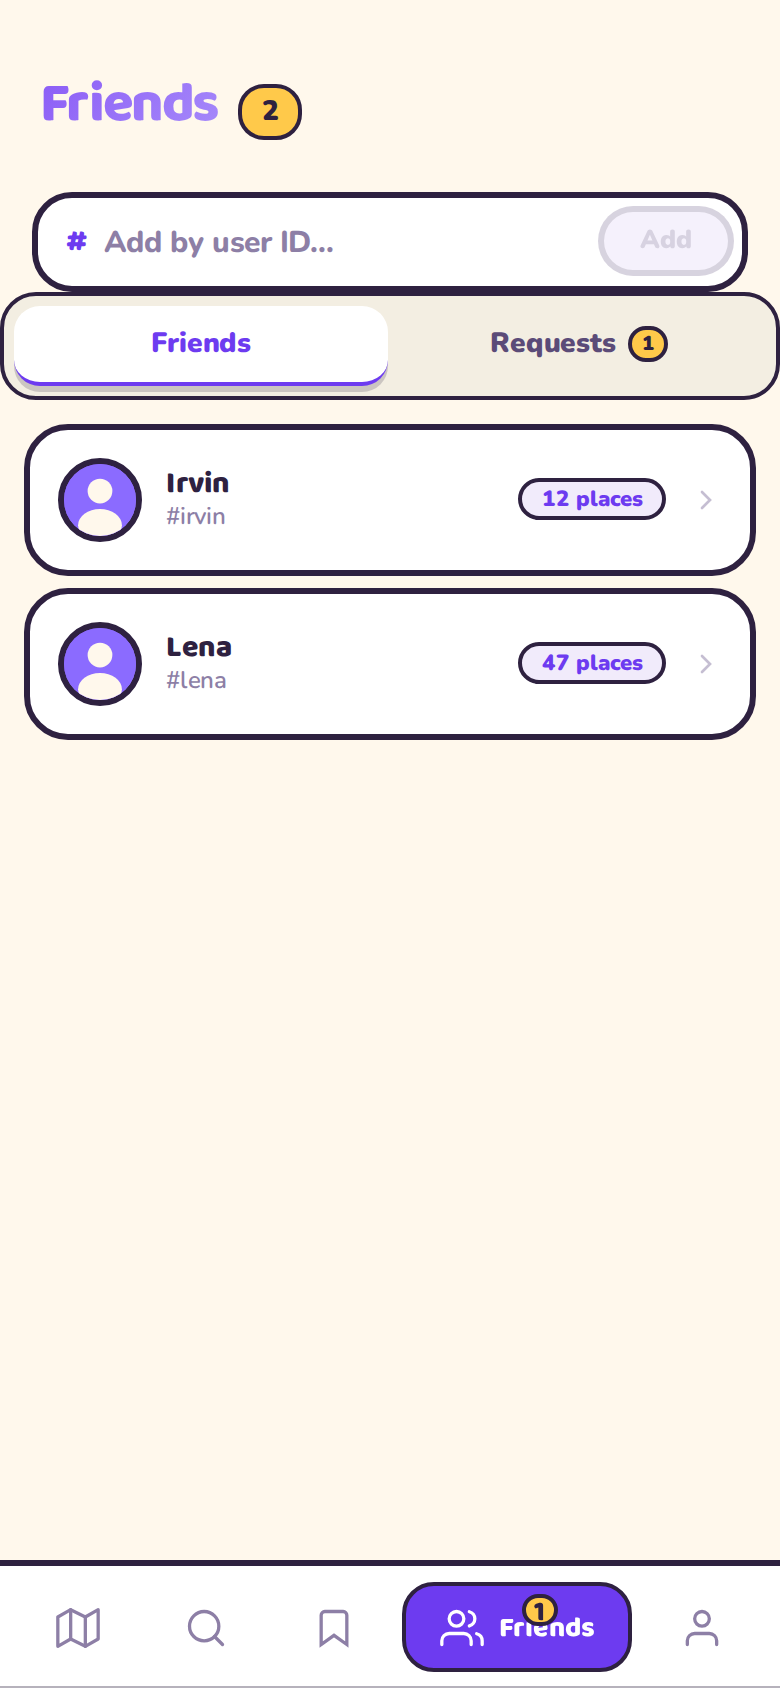
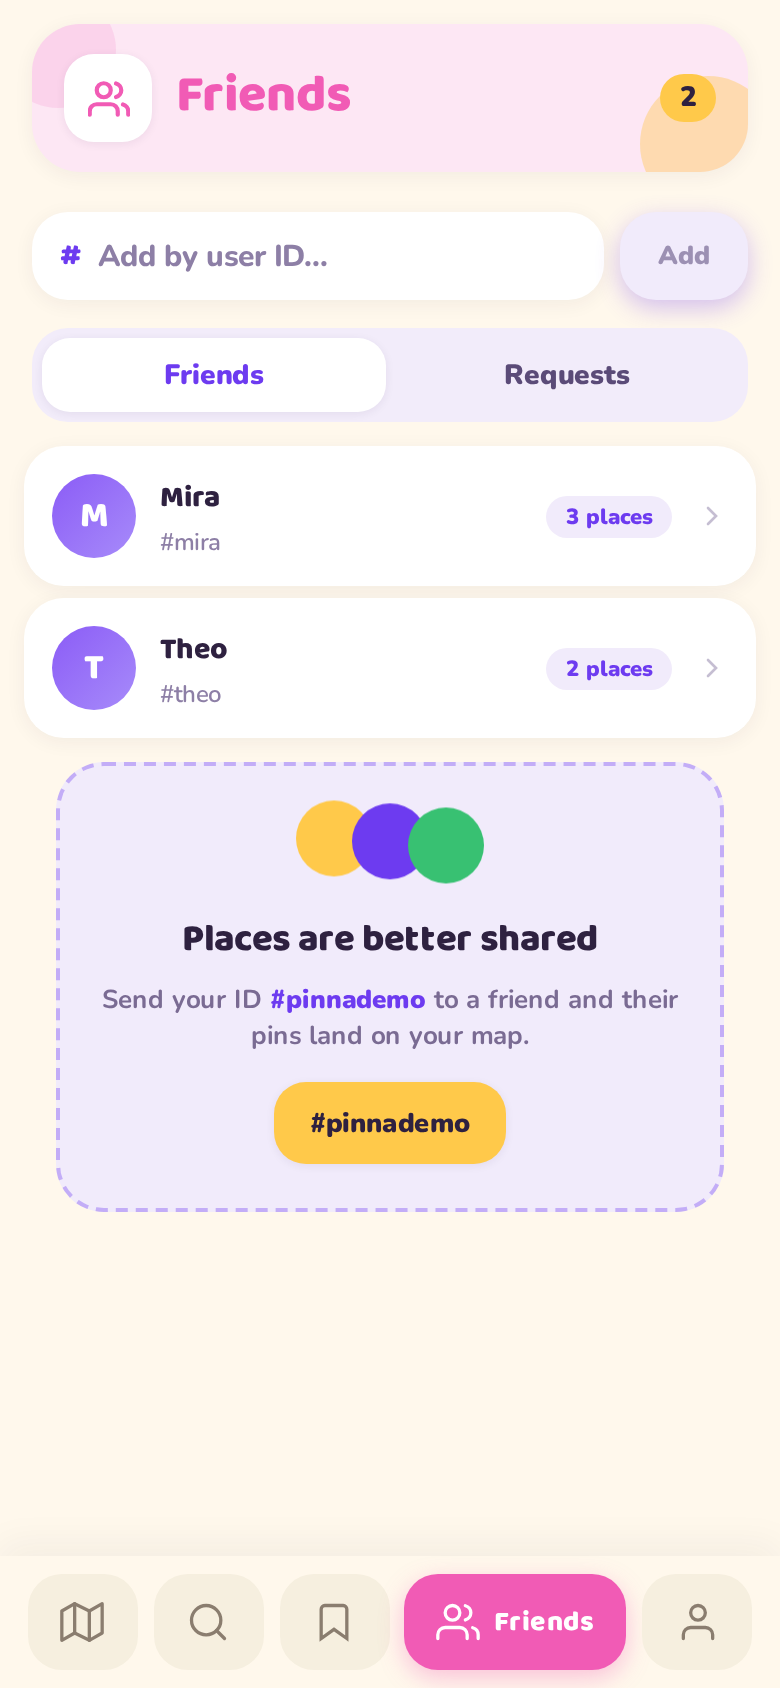
Rewrite README to actually sell the app + refresh every screenshot
Content:
- New hook/tagline, badges, a 'Why Pinna' section that leads with
  benefits (delightful, organized, shareable, accessible, open,
  fast) instead of a dry feature dump
- Fixed the Live Demo link: maps.osyna.com doesn't even resolve
  anymore (DNS dead) — the real live app is maps.osyna.sh
- Fixed the demo login: test@test.com was wiped in the Feb incident
  and never recreated, so the README was advertising a broken
  credential to every first-time visitor. Recreated it as a public
  shared demo account with a curated dataset (24 real-world places
  across 15+ cities, 2 demo friends, a custom list, favorites) —
  same account doubles as the source for every screenshot below
- New hero: a 10s, 2.5MB optimized GIF (ffmpeg two-pass palette,
  recorded via Playwright) showing the swipe-driven tab transitions
  across all 5 identity colors and the inline coordinates-copy
  interaction — sells the motion work that static PNGs can't
- All 7 static screenshots re-captured against the CURRENT UI (per-
  tab hero colors, icon+color markers/legend, redesigned place detail
  header/notes/coordinates) — the previous images were from before
  most of this session's work and no longer represented the app
- Reorganized screenshot gallery, tech stack (Frontend/Backend/Infra
  columns), streamlined Docker one-liner framing, Contributing +
  star-the-repo close

diff --git a/README.md b/README.md
@@ -1,43 +1,81 @@
-# Pinna
+<div align="center">
 
-Open-source mapping application with a playful **cartoon-game UI** — chunky ink outlines, cream paper surfaces, and press-down buttons. Built with Vue 3, Vite, and MapLibre GL on OpenStreetMap data: save the places you love, organize them by category, and share your map with friends.
+# 📍 Pinna
 
-![Map Overview](./assets/Global-Overview.png)
+### The place-saving app that actually feels fun to use.
+
+Stop losing your favorite spots in a boring list. Save them on a map that has personality — chunky ink outlines, a cream-paper world, and buttons that press down like they mean it. Open source, self-hostable, and built to be shared with the people you actually travel and eat with.
+
+[![License: GPLv3](https://img.shields.io/badge/license-GPLv3-8b6bff.svg)](./LICENSE)
+[![Vue 3](https://img.shields.io/badge/Vue-3-42b883?logo=vuedotjs&logoColor=white)](https://vuejs.org)
+[![MapLibre GL](https://img.shields.io/badge/MapLibre-GL-6d3bf0)](https://maplibre.org)
+[![PRs Welcome](https://img.shields.io/badge/PRs-welcome-ffc94a.svg)](https://github.com/Osyna/Pinna/pulls)
+
+**[✨ Try the live demo →](https://maps.osyna.sh)**
+
+![Pinna demo](./assets/demo.gif)
+
+</div>
+
+---
+
+## Why Pinna?
+
+Every mapping app lets you "save a place." Almost none of them make you *want* to open the app again.
+
+- 🎨 **It's actually delightful.** A hand-tuned cartoon UI — not a reskinned Google Maps clone — with motion, color, and personality on every screen.
+- 🗺 **Your places, organized like they matter.** Categories, star ratings, tags, notes, and custom lists ("Someday, Somewhere") — not a flat pin dump you'll never scroll through again.
+- 👯 **Built to share.** Add a friend by their ID and their pins land right on your map. See who else has already been to the place you're about to try.
+- ♿ **Accessible by design.** Every category is an icon *and* a color — never color alone — on markers, legends, and popups.
+- 🧩 **Actually open.** No walled garden, no ads, no tracking. Self-host it in five minutes with Docker, or fork it and make it yours.
+- ⚡ **Fast, for real.** Hundreds of saved places render instantly with dynamic loading, a shared geo-cache, and offline-ready map tiles — it stays snappy at any scale.
 
 ## 🚀 Live Demo
 
-You can try the live demo at: **[maps.osyna.com](https://maps.osyna.com)**
+Try it right now, no install needed: **[maps.osyna.sh](https://maps.osyna.sh)**
 
-**Credentials for testing:**
+**Shared demo login** (a public sandbox — feel free to explore and add a few pins of your own):
 - **Email:** `test@test.com`
 - **Password:** `test@test.com`
 
+*It's a shared account, so please be kind to it — for your own private map, registering a free account takes ten seconds.*
+
 ## Features
 
-- **Cartoon Game UI** - The app's signature look: 3px ink outlines, cream paper, `Baloo 2` display type, pop/bob animations and buttons that physically press down.
-- **Interactive Map** - MapLibre GL with Default, Streets, and Satellite tile layers, smooth fly-to animations and marker clustering.
-- **Icons + Colors** - Every category is encoded by an icon *and* a color — on map markers, in the legend, in popups — never by color alone (color-blind friendly).
-- **Place Search** - Search addresses via Nominatim and discover restaurants, cafes, bars and more from OpenStreetMap, worldwide or near you.
-- **Save Places** - Tap anywhere on the map to save a spot with notes, rating, cuisine, tags and website.
-- **Categories** - 13 built-in categories (Restaurant, Bar, Cafe, Bakery, Nature, Culture, Hotel…), each with its own icon and color; fully customizable.
-- **Friends** - Add friends by user ID, browse their maps, and see when friends saved the same place as you.
-- **Directions** - Driving routes to any saved place using OSRM.
-- **Import/Export** - Export all saved places to JSON, import from file.
-- **Accounts & Sync** - JWT-authenticated accounts with avatars, favorite cuisines and favorite places, backed by PostgreSQL.
+| | |
+|---|---|
+| 🎮 **Cartoon Game UI** | 3px ink outlines, cream paper, `Baloo 2` display type, pop/bob animations, and buttons that physically press down. Every tab has its own identity color that carries through its whole screen. |
+| 🗺 **Interactive Map** | MapLibre GL with Default, Streets, and Satellite layers, buttery fly-to animations, and marker clustering that scales to thousands of pins. |
+| 🎯 **Icons + Colors, Always Together** | Every category — on the map, in the legend, in popups — is encoded by an icon *and* a color. Never color alone. |
+| 🔍 **Real Place Search** | Search addresses via Nominatim and discover restaurants, cafés, bars, and more from OpenStreetMap, anywhere in the world or right around you. |
+| 📌 **Save Anything, Fast** | Tap anywhere on the map to save a spot with notes, a star rating, cuisine, tags, and a website link. |
+| 🗂 **Categories & Lists** | 13 built-in categories, each with its own icon and color, fully customizable — plus custom lists like "Someday, Somewhere" to plan future trips. |
+| 👥 **Friends** | Add friends by their user ID, browse their maps, and see at a glance when a friend has already saved the place you're looking at. |
+| 🧭 **Directions** | One-tap driving routes to any saved place via OSRM. |
+| 🗑 **Recoverable Deletes** | Deleted a place by mistake? It sits in Recently Deleted for 30 days before it's really gone. |
+| 📤 **Import & Export** | Export everything to JSON, import from file — including Google Maps Takeout and Mapstr exports. |
+| 🔐 **Real Accounts** | JWT-authenticated accounts with avatars, favorite cuisines, and favorite places, backed by PostgreSQL — your data is actually yours. |
+| 📱 **Installable & Offline-Ready** | A real PWA: install it to your home screen, and browse your saved places and cached map tiles even with no signal. |
 
 ## Screenshots
 
-| Map View | Place Details |
+| A world of saved places | Every tab, its own color |
 | :---: | :---: |
-| ![Map Screen](./assets/Map-Screen.png) | ![Place Preview](./assets/Place-Preview.png) |
+| ![Map Overview](./assets/Global-Overview.png) | ![Map Screen](./assets/Map-Screen.png) |
 
-| Search | My Places |
+| Rich place details | Search & discover |
 | :---: | :---: |
-| ![Search](./assets/Search.png) | ![My Places](./assets/MyPlaces.png) |
+| ![Place Preview](./assets/Place-Preview.png) | ![Search](./assets/Search.png) |
 
-| Friends | Profile |
+| Your places, organized | Places are better shared |
 | :---: | :---: |
-| ![Friends](./assets/Friends.png) | ![Profile](./assets/Profil..png) |
+| ![My Places](./assets/MyPlaces.png) | ![Friends](./assets/Friends.png) |
+
+<div align="center">
+
+![Profile](./assets/Profil..png)
+
+</div>
 
 ## Getting Started
 
@@ -75,20 +113,23 @@ docker build -t pinna .
 docker run -p 8080:80 -e DATABASE_URL=postgres://... pinna
 ```
 
-Then open http://localhost:8080
+Then open http://localhost:8080 — your own Pinna, running in one command.
 
 ## Tech Stack
 
-- **Vue 3** - Composition API for modern frontend logic.
-- **Vite** - High-performance build tool.
-- **MapLibre GL** - GPU-accelerated vector map rendering.
-- **Pinia** - Intuitive state management.
-- **OpenStreetMap** - Global open tile data.
-- **Nominatim** - Accurate geocoding & search.
-- **OSRM** - Efficient routing service.
-- **Express + Prisma** - REST API with PostgreSQL persistence and JWT auth.
-- **Nginx** - Production-ready serving (Docker).
+| Frontend | Backend | Infra |
+|---|---|---|
+| Vue 3 (Composition API) | Express | PostgreSQL + Prisma |
+| Vite | JWT auth | Nginx (Docker) |
+| MapLibre GL | Nominatim / Overpass / OSRM (self-cached proxy) | GitHub Actions CI |
+| Pinia | | |
 
 ## Design
 
-The cartoon UI was designed in [Claude Design](https://claude.ai/design) ("Cartoon game UI overhaul") and implemented 1:1 in Vue: the design tokens, category icon set and motion language live in `src/styles/cartoon.scss` and `src/categoryIcons.js`.
+The cartoon UI was designed in [Claude Design](https://claude.ai/design) ("Cartoon game UI overhaul") and implemented 1:1 in Vue: the design tokens, category icon set, and motion language live in [`src/styles/cartoon.scss`](./src/styles/cartoon.scss) and [`src/categoryIcons.js`](./src/categoryIcons.js).
+
+## Contributing
+
+Pinna is open source under GPLv3 — issues, pull requests, and forks are genuinely welcome. If you build something with it or find a bug, [open an issue](https://github.com/Osyna/Pinna/issues).
+
+If Pinna made you smile, a ⭐ on the repo goes a long way.
